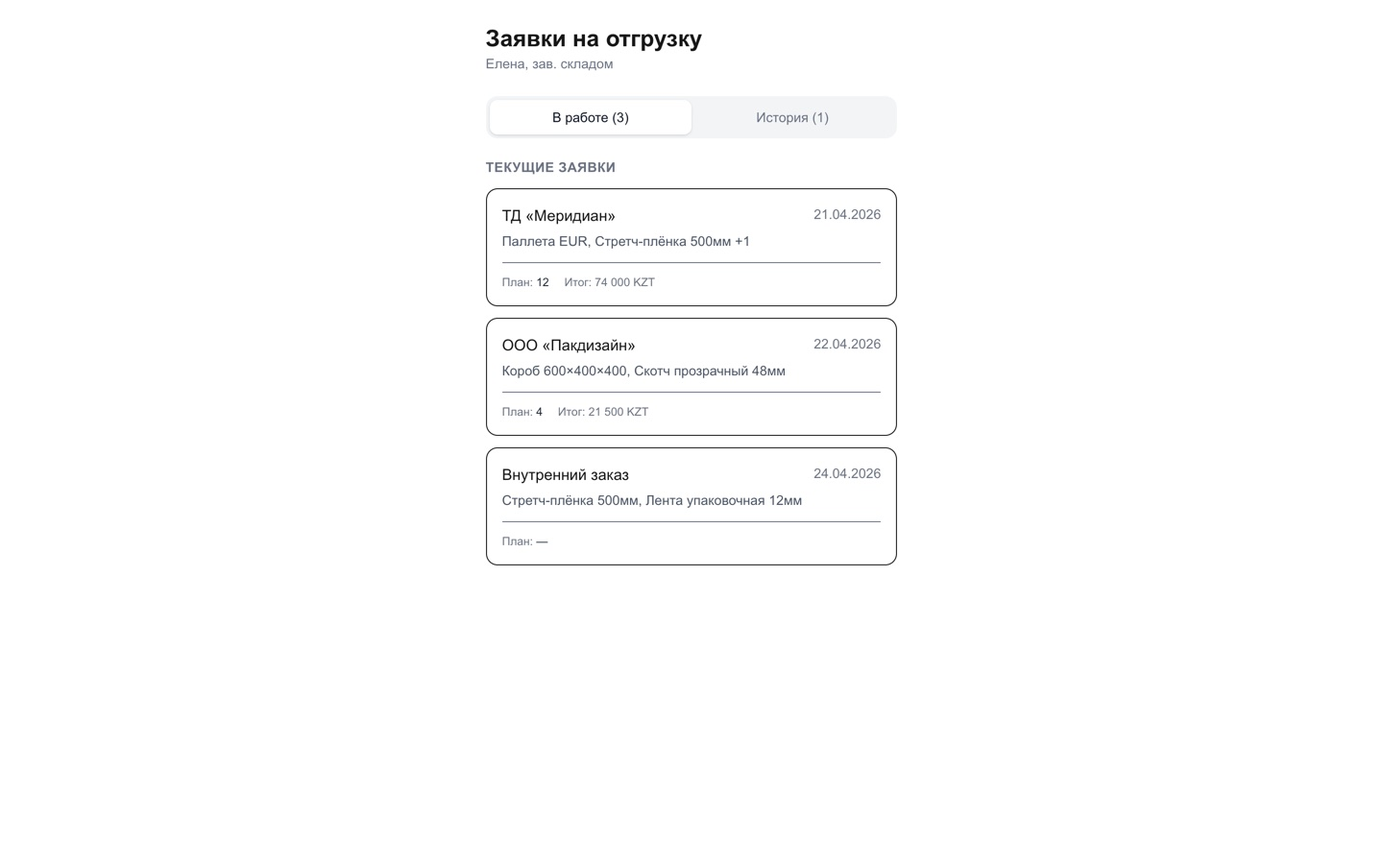
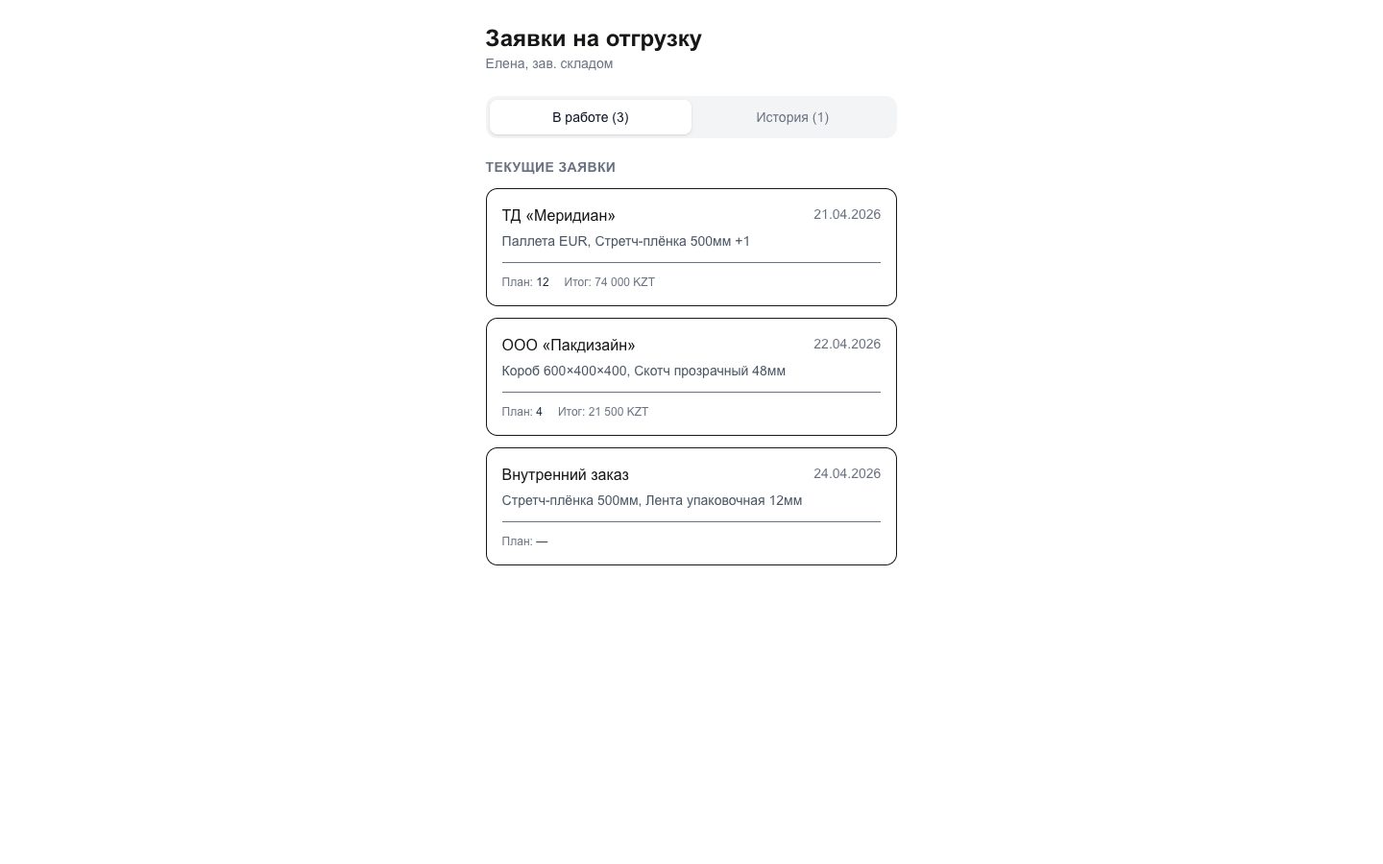
README: подробное описание проекта и скриншоты
Структура как в FinKeyMemory: задача, архитектура, карта фич, измеренные цифры, известные ограничения.

diff --git a/README.md b/README.md
@@ -1,121 +1,161 @@
-# Интерфейс зав. склада + amoCRM
+<div align="center">
 
-**Демо без amoCRM:** <https://4snab.vercel.app> → «Открыть демо-заявки» или `/s/demo-4snab`.
+# 4snab — интерфейс заведующего складом поверх amoCRM
 
-Веб-инструмент для заведующего складом. Работает поверх amoCRM: диспетчер
-переводит сделку на этап «Отгрузка» → создаётся связанная сделка в воронке
-«Склад» → зав. склада заполняет факт, единицу и закупочную цену отдельно для
-каждого выбранного материала, общие поддоны и доставку, прикладывает любое число
-накладных → данные и файлы возвращаются в исходную сделку диспетчера → она
-переходит на «Получение накладной», а складская сделка — на «Готово».
+**Не ещё одна CRM, а рабочее место одного человека внутри чужой CRM.**
+Диспетчер переводит сделку на «Отгрузку» → склад получает связанную сделку → зав.
+складом заполняет факт, единицу и закупочную цену отдельно по каждому материалу →
+данные и накладные возвращаются в исходную сделку.
 
-## Стек
+**Демо без amoCRM:** <https://4snab.vercel.app> → «Открыть демо-заявки» или `/s/demo-4snab`
 
-- Next.js 16 (App Router), TypeScript, Tailwind
-- amoCRM API v4 (долгосрочный токен, хранится только в env на сервере)
-- amoCRM Files API (частичная загрузка файлов без ограничения их количества)
-- SQLite (`better-sqlite3`) для черновиков и построчных складских данных
-- `decimal.js` для точного расчёта количества и денежных сумм
+![Next.js](https://img.shields.io/badge/next.js-16%20App%20Router-black?logo=next.js&logoColor=white)
+![TypeScript](https://img.shields.io/badge/typescript-on-red?logo=typescript&logoColor=white)
+![amoCRM](https://img.shields.io/badge/amoCRM-API%20v4%20%2B%20Files%20API-6c45e0)
+![SQLite](https://img.shields.io/badge/SQLite-better--sqlite3-003b57?logo=sqlite&logoColor=white)
+![Decimal](https://img.shields.io/badge/money-decimal.js-blue)
+![Tests](https://img.shields.io/badge/tests-vitest-brightgreen)
+![License](https://img.shields.io/badge/license-all%20rights%20reserved-red)
 
-Текущая SQLite-версия рассчитана на один постоянный локальный сервер. Перед
-переносом на Vercel или несколько экземпляров приложения базу нужно перенести в
-PostgreSQL.
+</div>
 
-## Демо-режим
+---
 
-Пока `WAREHOUSE_USERS` не задан, приложение считает себя витриной: `src/lib/demoStore.ts`
-отдаёт четыре примера заявок (три в работе, одна в истории), авторизует токен
-`demo-4snab`, а сохранение черновика и завершение считают суммы в памяти процесса.
-Что это даёт и чего в демо нет:
+<table>
+  <tr>
+    <td width="50%"><img src=".github/assets/landing.jpg" alt="Вход в демо-режим" /></td>
+    <td width="50%"><img src=".github/assets/list.jpg" alt="Список заявок: в работе и история" /></td>
+  </tr>
+  <tr>
+    <td><img src=".github/assets/detail.jpg" alt="Карточка заявки с построчным расчётом" /></td>
+    <td align="center"><img src=".github/assets/mobile-list.jpg" alt="Список заявок на вьюпорте 390 px" width="300" /></td>
+  </tr>
+</table>
 
-| Работает | Не работает в демо |
-| --- | --- |
-| Список, счётчики «В работе / История», карточка заявки | Загрузка накладных (нужен Files API amoCRM) |
-| Факт, единица, цена по каждому материалу, поддоны и доставка | Синхронизация с воронкой склада и сделки диспетчера |
-| Сохранение черновика и пересчёт итогов | Персистентность: серверная функция живёт до выгрузки контейнера |
+## Задача
 
-![Список заявок](.github/assets/list.jpg)
+Склад в малой производственной компании живёт в таблице Excel, а сделки — в amoCRM,
+и никто их не соединяет. Диспетчер теряет час на переписку «сколько фактически
+ушло», зав. складом заполняет бумажную накладную, а себестоимость отгрузки
+всплывает через месяц.
 
-![Карточка заявки](.github/assets/detail.jpg)
+Готовые решения здесь не работают: складу не нужен весь CRM-интерфейс, а CRM не
+нужна складская логика. Поэтому сделан тонкий слой — одна страница на человека с
+именным токеном, которая живёт ровно в одном переходе воронки.
 
-## Запуск локально
+## Что это (и чего это не)
+
+**Это интерфейс одного рабочего места, а не панель управления.** У зав. склада нет
+логина и пароля: `src/lib/auth.ts` выдаёт каждому именную ссылку вида `/s/<токен>`
+из переменной `WAREHOUSE_USERS`. Открыл закладку — работает.
+
+**Это не дубль CRM.** AmoCRM остаётся источником сделок, воронок и этапов. SQLite
+хранит только то, чего в amoCRM нет: построчные складские данные и черновики.
+
+**Демо-режим — это не заглушка, а второй режим работы того же кода.** Пока
+`WAREHOUSE_USERS` не задан, `src/lib/demoStore.ts` отдаёт четыре примера заявок
+(три в работе, одна в истории), авторизует токен `demo-4snab`, а черновик и
+завершение считают суммы в памяти процесса.
+
+## Карта
+
+```
+ amoCRM (диспетчер)                    4snab                          amoCRM (склад)
+ ┌──────────────────────┐   webhook   ┌──────────────────────────┐   ┌──────────────────┐
+ │ сделка → «Отгрузка»  │ ──────────► │ /api/amo-webhook?secret= │   │ воронка «Склад»  │
+ └──────────────────────┘             └─────────────────────────┘   └────────┬─────────
+                                                   │ создаёт связанную сделку │
+                              ┌────────────────────▼──────────────────┐       │
+                              │ /s/<token>       интерфейс зав. склада │       │
+                              │  · материал → факт · единица · цена    │       │
+                              │  · общие поддоны · доставка            │       │
+                              │  · N накладных (Files API, chunked)    │       │
+                              │  · черновик → SQLite                   │       │
+                              └────────────────────┬──────────────────┘       │
+                                                   │ «Завершить»              │
+   сделка диспетчера → «Получение накладной» ◄────────────────────────────── → «Готово»
+```
+
+## Что делает этот код необычным
+
+- **Расчёт на `decimal.js`, а не на `Number`.** Факт, единица и закупочная цена
+  считаются построчно и складываются в итог; float здесь даёт копеечный разрыв
+  между накладной и тем, что видит диспетчер.
+- **Несколько материалов в одной заявке — это основной путь, а не крайний случай.**
+  Всё поле `Материал / Номенклатура` читается как список позиций. При этом для
+  одной позиции заполняются существующие скалярные поля amoCRM (факт и цена), а для
+  нескольких — намеренно нет: построчные значения живут в SQLite, и писать их в
+  скалярное поле означало бы соврать в отчёте.
+- **Накладные грузятся через Files API с частичной загрузкой** — без ограничения на
+  число файлов и без лимита на размер тела запроса, который ломает обычный
+  `multipart` на проде.
+- **Дедупликация вебхука тегом.** После создания складской сделки исходная помечается
+  `AMOCRM_PROCESSED_TAG`; повторный вебхук ничего не создаёт. ID исходной сделки
+  пишется в поле `AMOCRM_FIELD_SOURCE_LEAD`, так что связь двусторонняя.
+- **Черновик не трогает CRM.** Сохранение — только SQLite. В amoCRM уходит один
+  финальный запрос, когда зав. склада нажал «Завершить».
+- **`npm run discover` вместо ручного выуживания ID.** Воронки, этапы и кастомные
+  поля amoCRM идентифицируются числами; скрипт печатает их, а `scripts/create-fields.mjs`
+  создаёт недостающие идемпотентно.
+
+## Карта фич
+
+| Слой | Файл | Что делает |
+|---|---|---|
+| Клиент CRM | `src/lib/amocrm.ts` | API v4 на долгосрочном токене, только сервер |
+| Вебхук | `src/app/api/amo-webhook/route.ts` | приём «смена этапа», фильтр по воронке и этапу, секрет в query |
+| Домен | `src/lib/requests.ts` | сделка ⇄ заявка на отгрузку, единственная точка перевода |
+| Расчёты | `src/lib/warehouse-calculations.ts` | построчные и итоговые суммы на `decimal.js` |
+| Хранилище | `src/lib/warehouse-db.ts` | SQLite, миграции, версии, черновики |
+| Доступ | `src/lib/auth.ts` | именные токены из `WAREHOUSE_USERS` |
+| API заявок | `src/app/api/requests/`, `.../[id]/files/` | список и карточка по токену, частичная загрузка накладных |
+| Демо | `src/lib/demoStore.ts` | четыре заявки и in-memory расчёт без CRM и без БД |
+
+## Стек и размер
+
+| 4 864 | 30 | 3 | 6 | 2 |
+| --- | --- | --- | --- | --- |
+| строк TS/TSX | файлов | страницы | API-роута | тестовых файла (vitest) |
+
+Next.js 16 (App Router), TypeScript, Tailwind. `better-sqlite3` для черновиков и
+построчных данных, `decimal.js` для денег, `amoCRM API v4` + Files API. Долгосрочный
+токен живёт только в переменных окружения на сервере и ни в одном клиентском бандле.
+
+## Запуск
 
 ```bash
 npm install
-cp .env.local.example .env.local   # заполнить значения
-npm run discover                    # вывести ID воронок / этапов / полей
-# перенести нужные ID в .env.local
+cp .env.local.example .env.local   # AMOCRM_SUBDOMAIN, AMOCRM_ACCESS_TOKEN
+npm run discover                   # ID воронок / этапов / полей → в .env.local
 npm run dev
 ```
 
-Открыть `http://localhost:3000/s/<токен-из-WAREHOUSE_USERS>`.
+Открыть `http://localhost:3000/s/<токен из WAREHOUSE_USERS>`. Без `WAREHOUSE_USERS`
+приложение само становится витриной с демо-заявками.
 
-Проверки перед запуском:
+Проверки перед выкаткой:
 
 ```bash
-npm test
-npm run lint
-npx tsc --noEmit
-npm run build
+npm test && npm run lint && npx tsc --noEmit && npm run build
 ```
-
-## Переменные окружения
-
-См. `.env.local.example`. Обязательные для старта: `AMOCRM_SUBDOMAIN`,
-`AMOCRM_ACCESS_TOKEN`. Остальные ID заполняются после `npm run discover`.
-
-`WAREHOUSE_DB_PATH` задаёт путь к SQLite-файлу. По умолчанию используется
-`data/warehouse.sqlite`; каталог создаётся автоматически и исключён из Git.
 
 Для загрузки накладных у интеграции amoCRM должен быть включён scope
-**«Доступ к файлам»**. Scope удаления файлов не требуется.
+**«Доступ к файлам»**; scope удаления не требуется и не запрашивается.
 
-## Вебхук amoCRM
+## Известные ограничения
 
-В настройках amoCRM добавить вебхук на событие **«Смена этапа сделки»**:
+- **SQLite рассчитана на один постоянный локальный сервер.** Перед переносом на
+  Vercel или на несколько экземпляров базу нужно перевести в PostgreSQL — это
+  осознанный долг, а не случайность.
+- **В демо не работает загрузка накладных** (нужен Files API), синхронизация с
+  воронкой склада и персистентность: серверная функция живёт до выгрузки контейнера.
+- **Не сделано:** уведомление зав. складу о новой заявке (Wazzup), отчёт
+  «Табель отгрузки» в Excel с прибылью по отгрузке, несколько рейсов в одной заявке.
+- **Вебхук принимает только один переход** — на этап `AMOCRM_DISPATCH_SHIPPING_STATUS_ID`
+  в воронке `AMOCRM_DISPATCH_PIPELINE_ID`. Всё остальное игнорируется молча.
 
-```
-URL: https://<домен>/api/amo-webhook?secret=<AMOCRM_WEBHOOK_SECRET>
-```
+## Права
 
-Приложение реагирует только на переход в воронке диспетчера
-(`AMOCRM_DISPATCH_PIPELINE_ID`) на этап `AMOCRM_DISPATCH_SHIPPING_STATUS_ID`.
-После завершения складом исходная сделка переводится на этап
-`AMOCRM_DISPATCH_WAYBILL_STATUS_ID`.
-
-## Структура
-
-```
-src/lib/amocrm.ts     — клиент amoCRM API
-src/lib/env.ts        — переменные окружения
-src/lib/auth.ts       — именные ссылки зав. склада
-src/lib/requests.ts   — доменный слой (сделка ⇄ заявка на отгрузку)
-src/lib/warehouse-db.ts — SQLite, миграции, версии и черновики
-src/lib/warehouse-calculations.ts — точные построчные и итоговые расчёты
-src/app/api/amo-webhook/route.ts   — приём вебхука
-src/app/api/requests/                — JSON API (список + заявка), доступ по токену
-src/app/api/requests/[id]/files/     — список и частичная загрузка накладных
-src/app/s/[token]/                 — интерфейс зав. склада
-scripts/discover.mjs      — вывод ID воронок/этапов/полей из amoCRM
-scripts/create-fields.mjs — создание кастомных полей склада (идемпотентно)
-```
-
-## Дедупликация
-
-После создания складской сделки сделка диспетчера помечается тегом
-`AMOCRM_PROCESSED_TAG`. Повторный вебхук по той же сделке ничего не создаёт.
-ID исходной сделки пишется в поле `AMOCRM_FIELD_SOURCE_LEAD` складской сделки.
-
-## Несколько материалов
-
-Все значения поля `Материал / Номенклатура` читаются как отдельные позиции.
-Черновик не меняет amoCRM. При завершении общие поддоны, доставка, итог и файлы
-передаются диспетчеру. Для одной позиции также заполняются существующие скалярные
-поля факта и цены; для нескольких позиций эти два поля намеренно не заполняются,
-поскольку построчные значения хранятся в SQLite.
-
-## Что ещё не сделано
-
-- Уведомления зав. складу о новой заявке (Wazzup)
-- Отчёт «Табель отгрузки» (Excel, прибыль по каждой отгрузке)
-- Поддержка нескольких рейсов в одной заявке
+© 2026 Nikita Koreshkov. Портфельная работа, все права защищены. AmoCRM, названия
+воронок и данные клиента принадлежат их владельцам; интеграция использует открытое
+API amoCRM.
